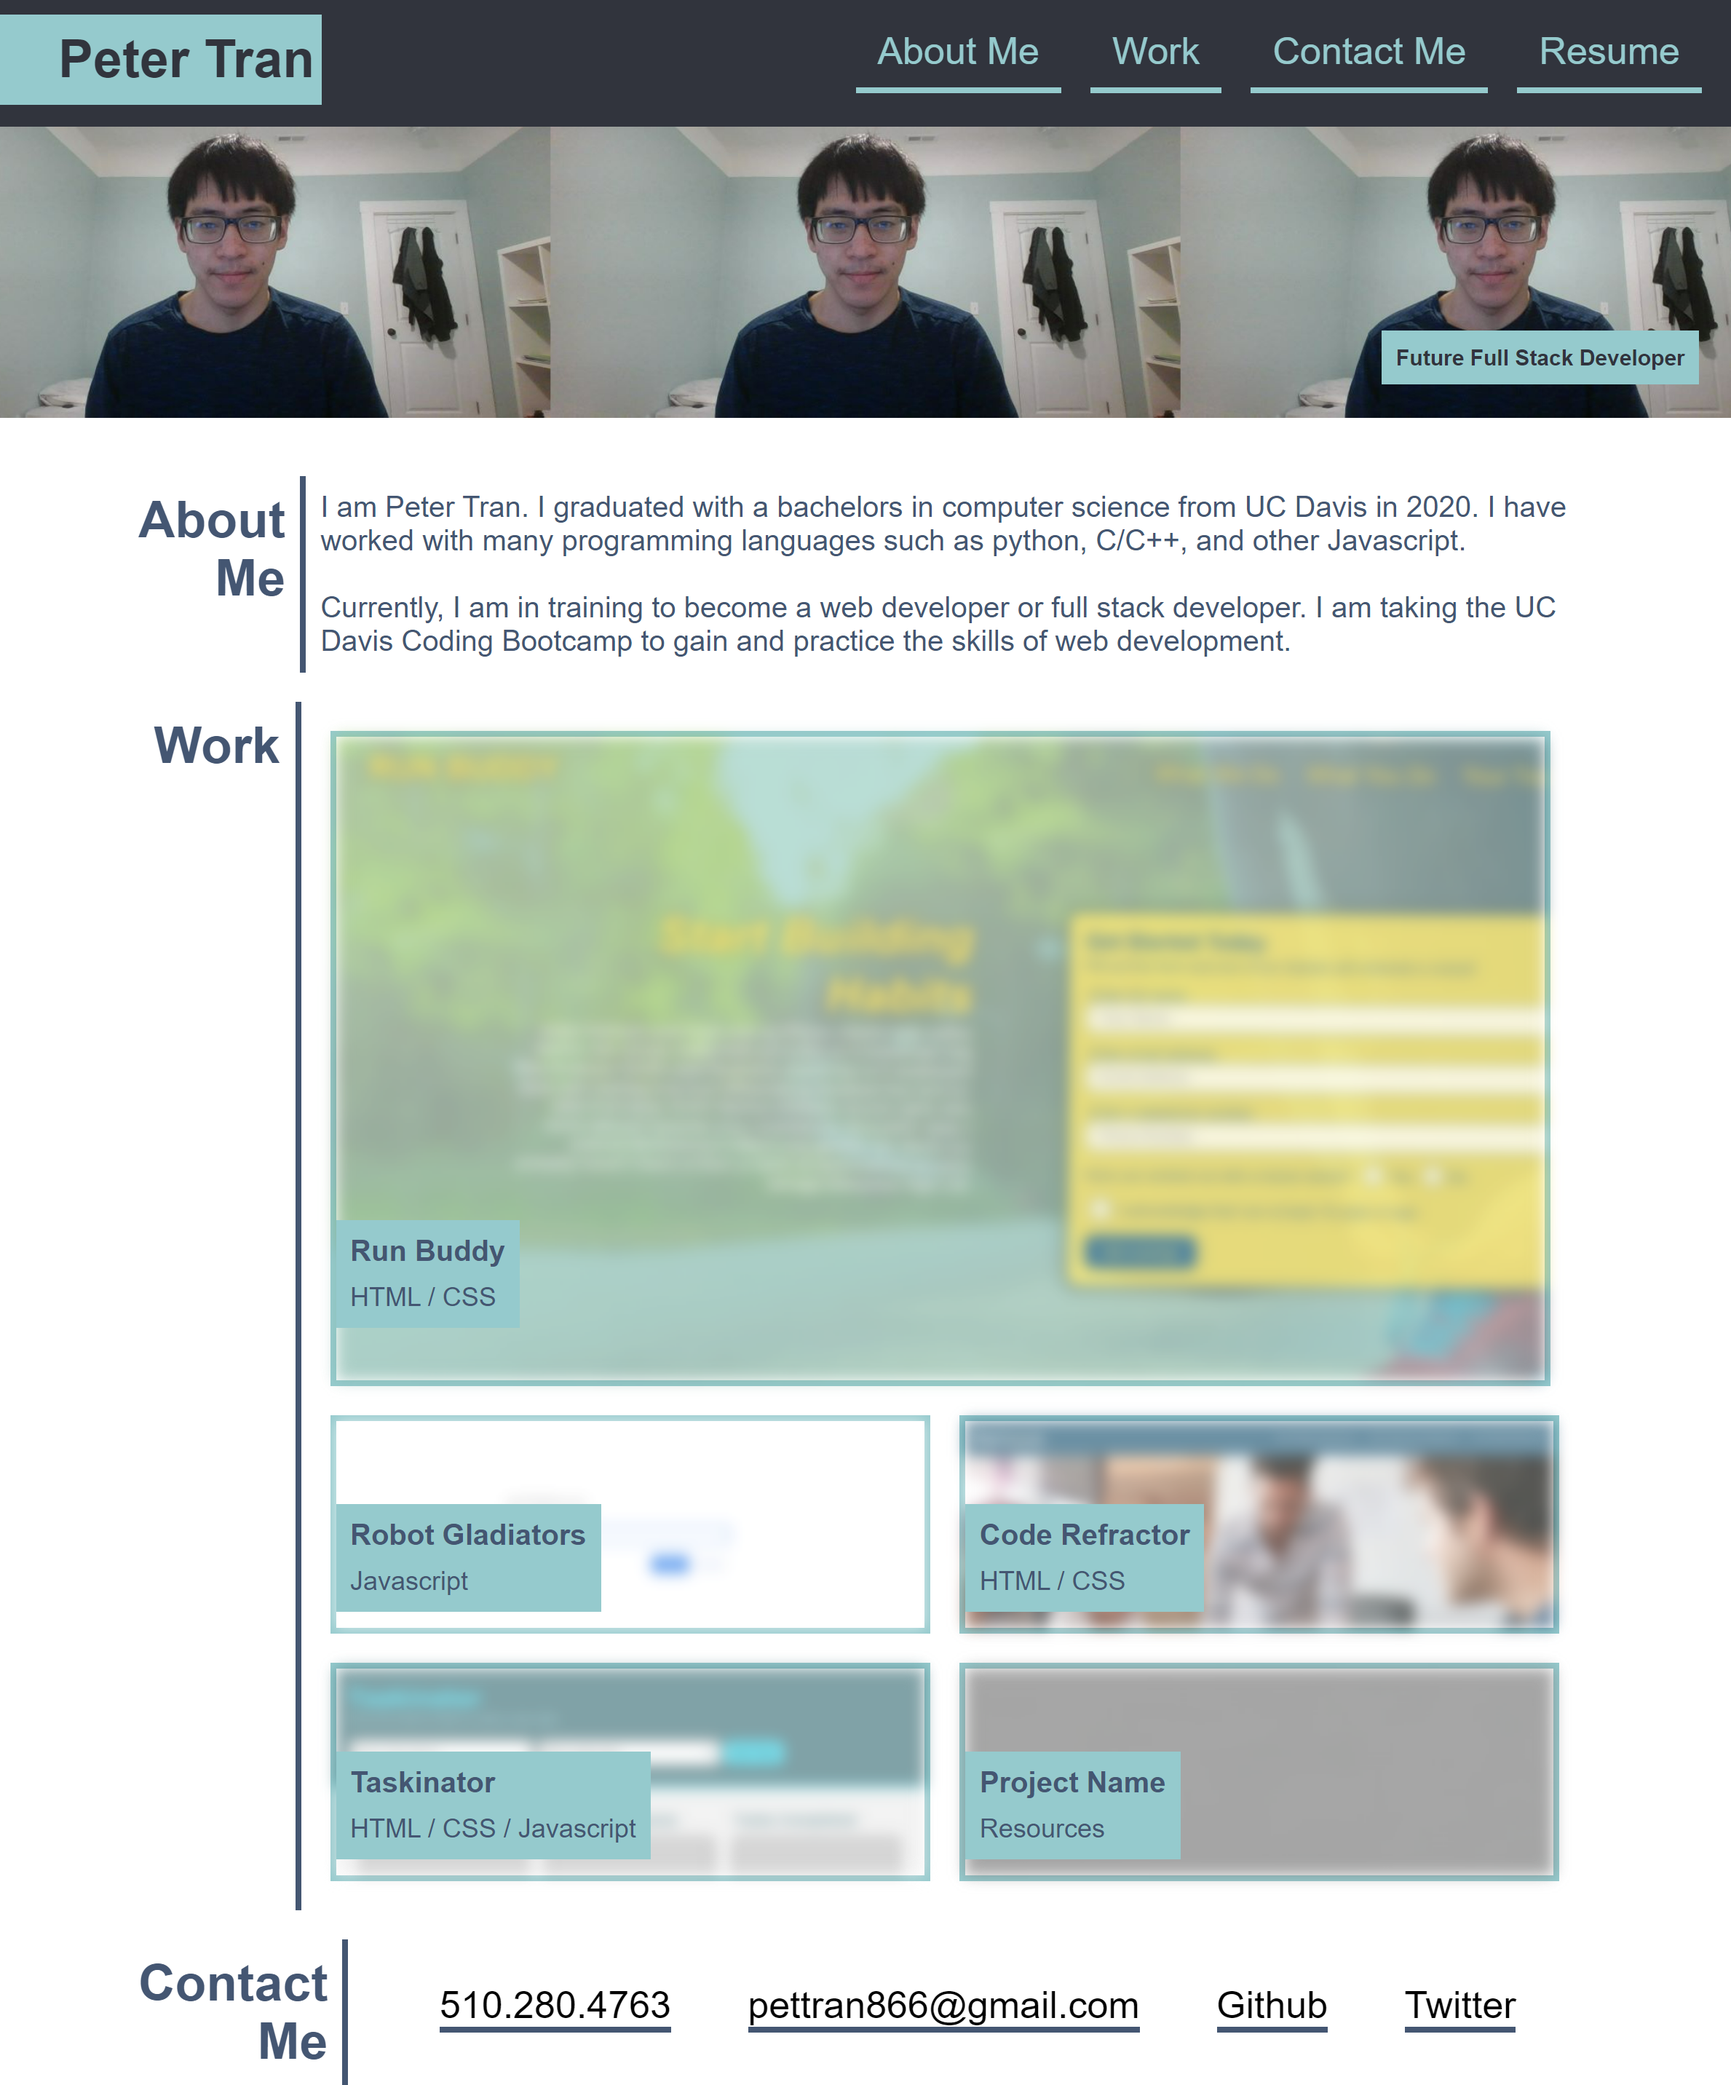
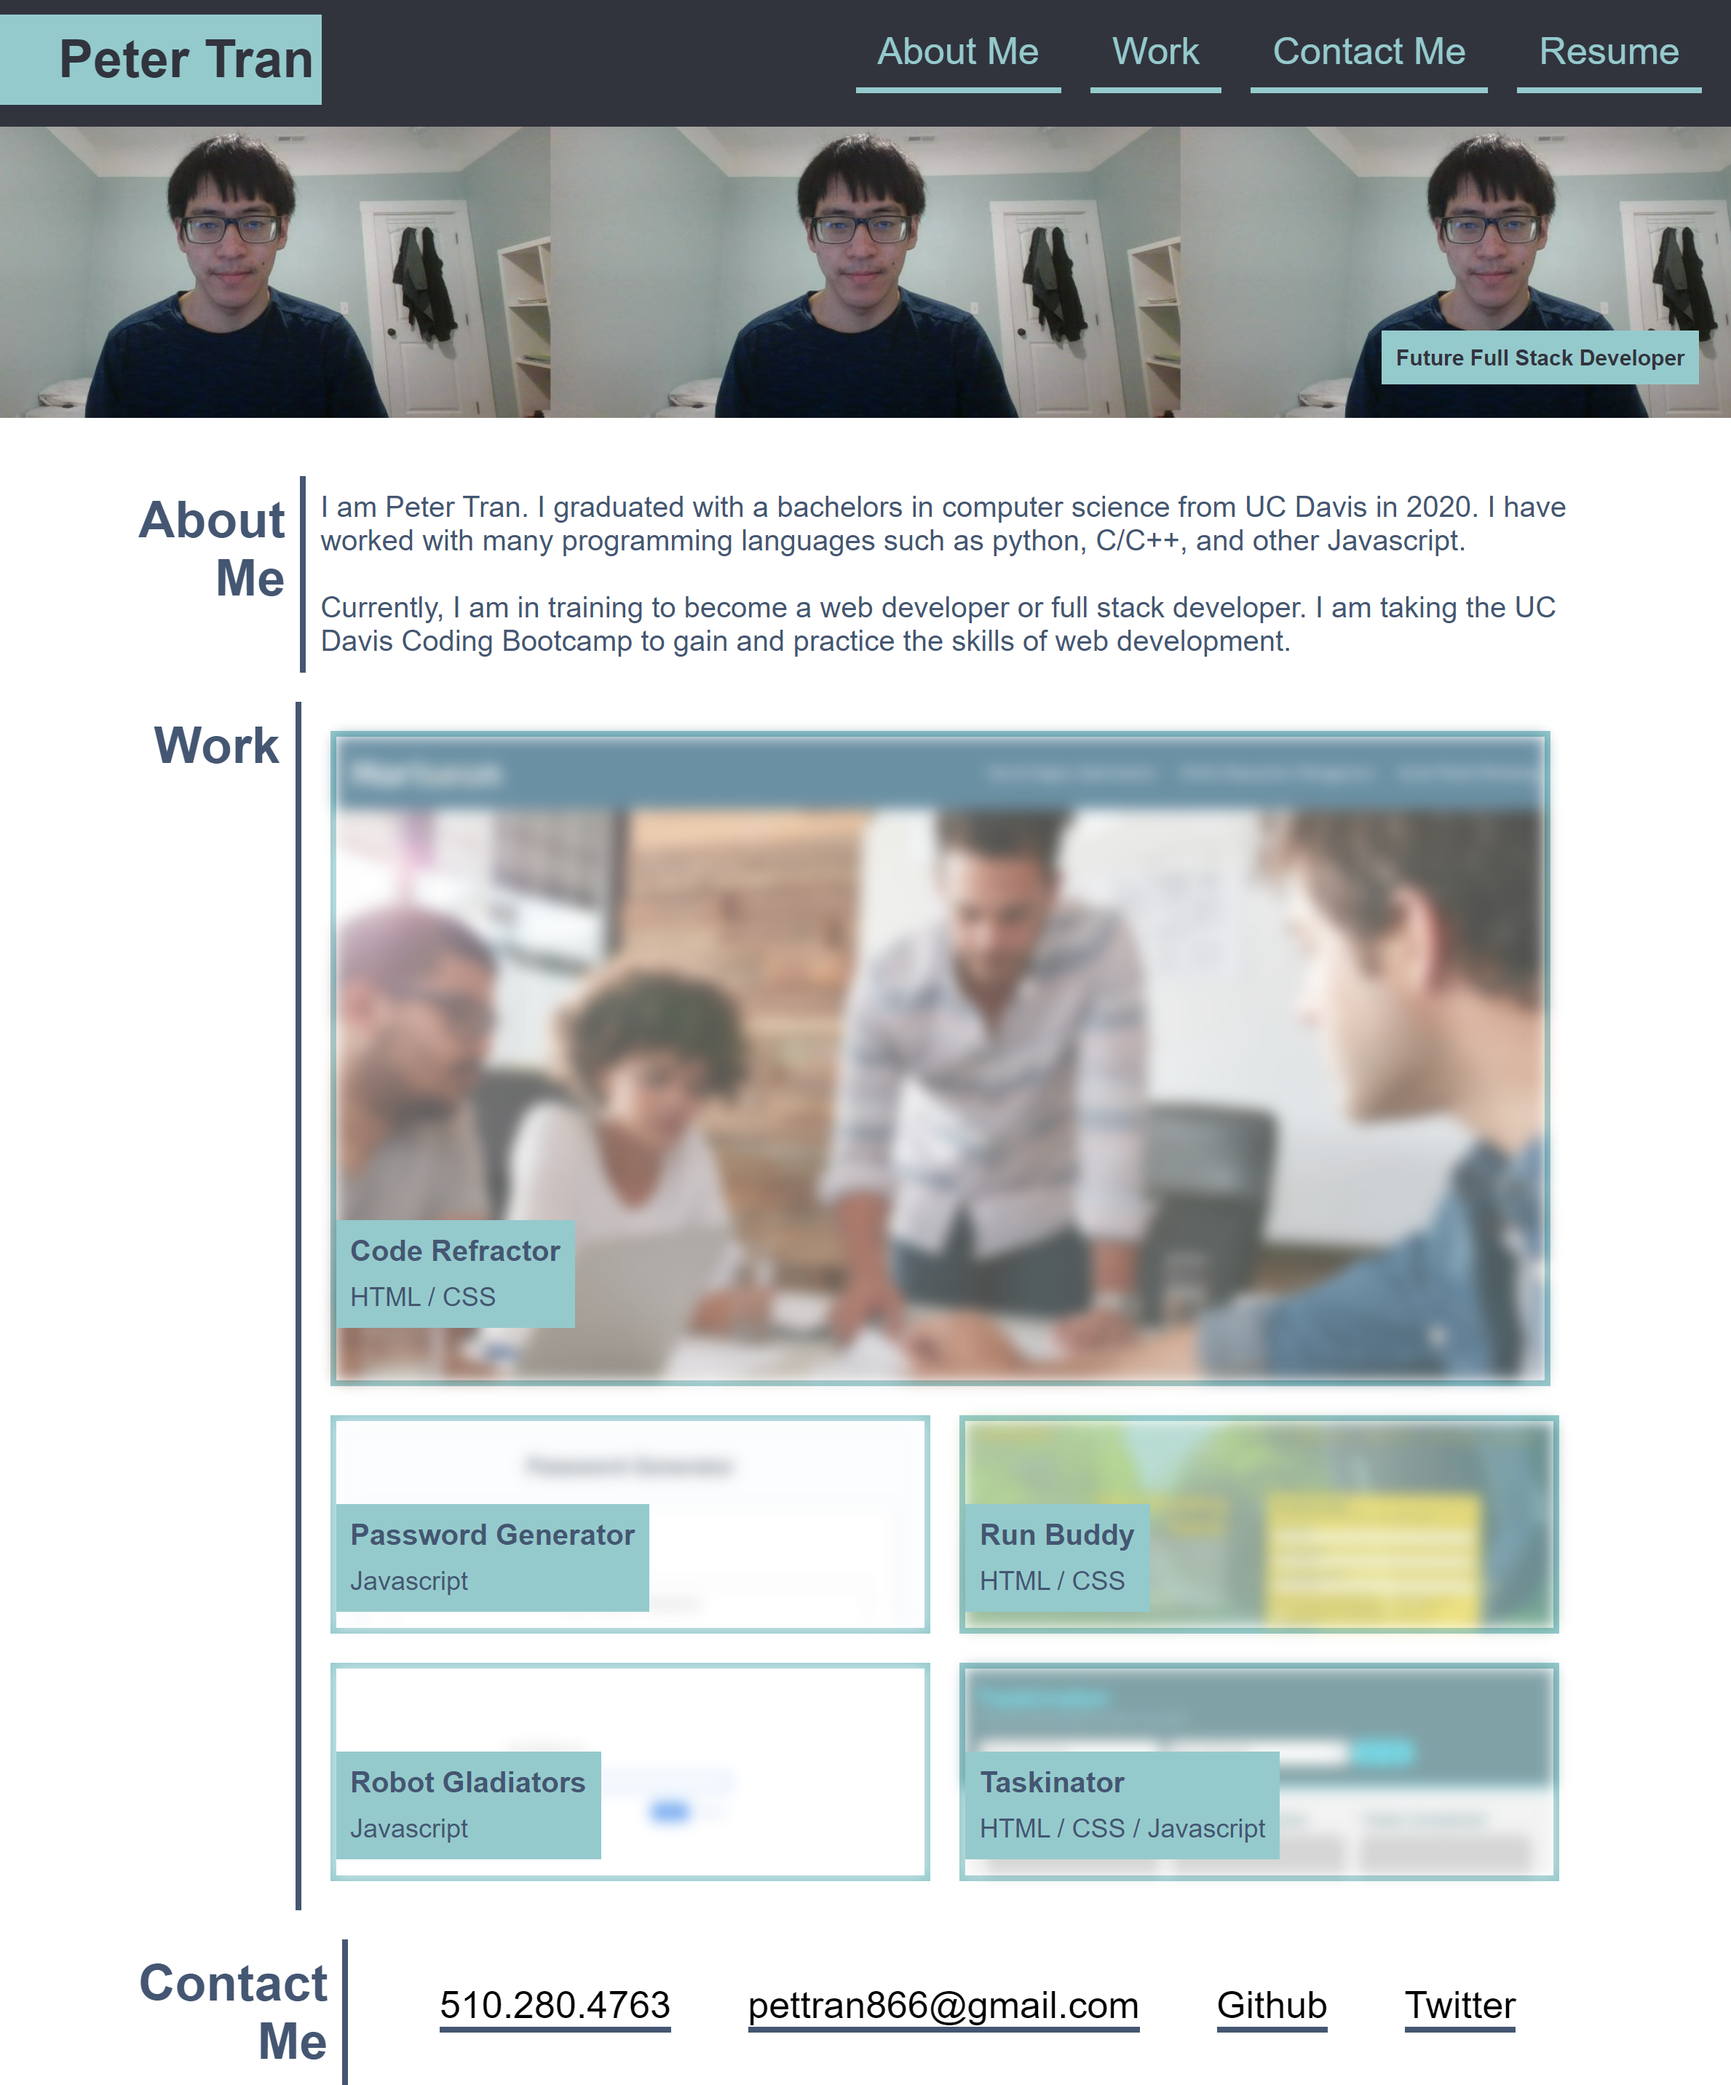
edited images and links

Changed region(s): [[0.1867, 0.3418, 0.9024, 0.9012]]

diff --git a/index.html b/index.html
@@ -18,7 +18,11 @@
           <li><a href="#about-me">About Me</a></li>
           <li><a href="#work">Work</a></li>
           <li><a href="#contact-me">Contact Me</a></li>
-          <li><a href="#">Resume</a></li>
+          <li>
+            <a href="https://www.linkedin.com/in/peter-tran-b9a02620b/"
+              >Resume</a
+            >
+          </li>
         </ul>
       </nav>
     </header>
@@ -61,7 +65,7 @@
           >
             <div class="projectImage"></div>
             <div class="app-info">
-              <h3>Run Buddy</h3>
+              <h3>Code Refractor</h3>
               <p>HTML / CSS</p>
             </div>
           </a>
@@ -74,7 +78,7 @@
           >
             <div class="projectImage"></div>
             <div class="app-info">
-              <h3>Robot Gladiators</h3>
+              <h3>Password Generator</h3>
               <p>Javascript</p>
             </div>
           </a>
@@ -87,7 +91,7 @@
           >
             <div class="projectImage"></div>
             <div class="app-info">
-              <h3>Code Refractor</h3>
+              <h3>Run Buddy</h3>
               <p>HTML / CSS</p>
             </div>
           </a>
@@ -100,8 +104,8 @@
           >
             <div class="projectImage"></div>
             <div class="app-info">
-              <h3>Taskinator</h3>
-              <p>HTML / CSS / Javascript</p>
+              <h3>Robot Gladiators</h3>
+              <p>Javascript</p>
             </div>
           </a>
 
@@ -109,8 +113,8 @@
           <a href="" class="app" id="project5">
             <div class="projectImage"></div>
             <div class="app-info">
-              <h3>Project Name</h3>
-              <p>Resources</p>
+              <h3>Taskinator</h3>
+              <p>HTML / CSS / Javascript</p>
             </div>
           </a>
         </div>
@@ -135,7 +139,7 @@
             <li><a href="https://github.com/ptran77">Github</a></li>
 
             <!-- Twitter -->
-            <li><a href="">Twitter</a></li>
+            <li><a href="https://twitter.com/tr46519778">Twitter</a></li>
           </ul>
         </div>
       </section>

diff --git a/assets/css/style.css b/assets/css/style.css
@@ -154,23 +154,23 @@ main section h2 {
   filter: none;
 }
 #project1 .projectImage {
-  background-image: url("../images/run-buddy.png");
-}
-
-#project2 .projectImage {
-  background-image: url("../images/robot-gladiators.png");
-}
-
-#project3 .projectImage {
   background-image: url("../images/code-refractor.png");
 }
 
+#project2 .projectImage {
+  background-image: url("../images/password-generator.png");
+}
+
+#project3 .projectImage {
+  background-image: url("../images/run-buddy.png");
+}
+
 #project4 .projectImage {
-  background-image: url("../images/taskinator.png");
+  background-image: url("../images/robot-gladiators.png");
 }
 
 #project5 .projectImage {
-  background-image: url("../images/Project5.jpg");
+  background-image: url("../images/taskinator.png");
 }
 
 .app-info {
